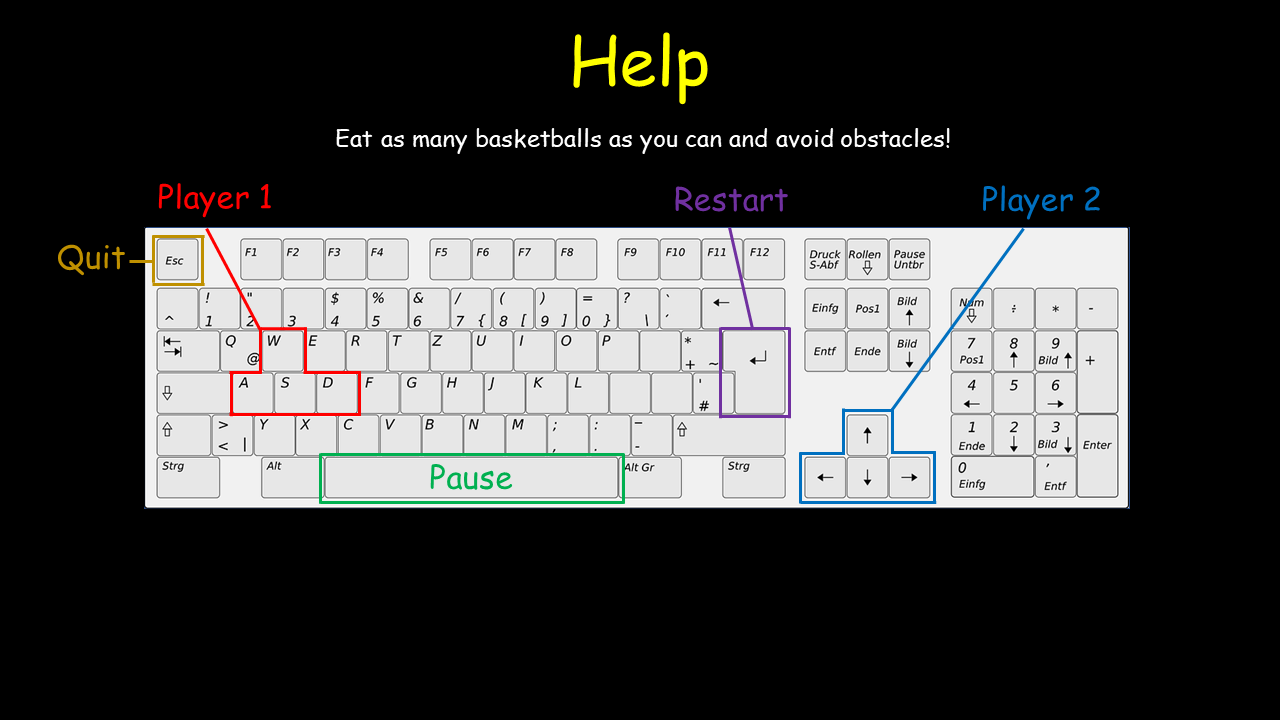
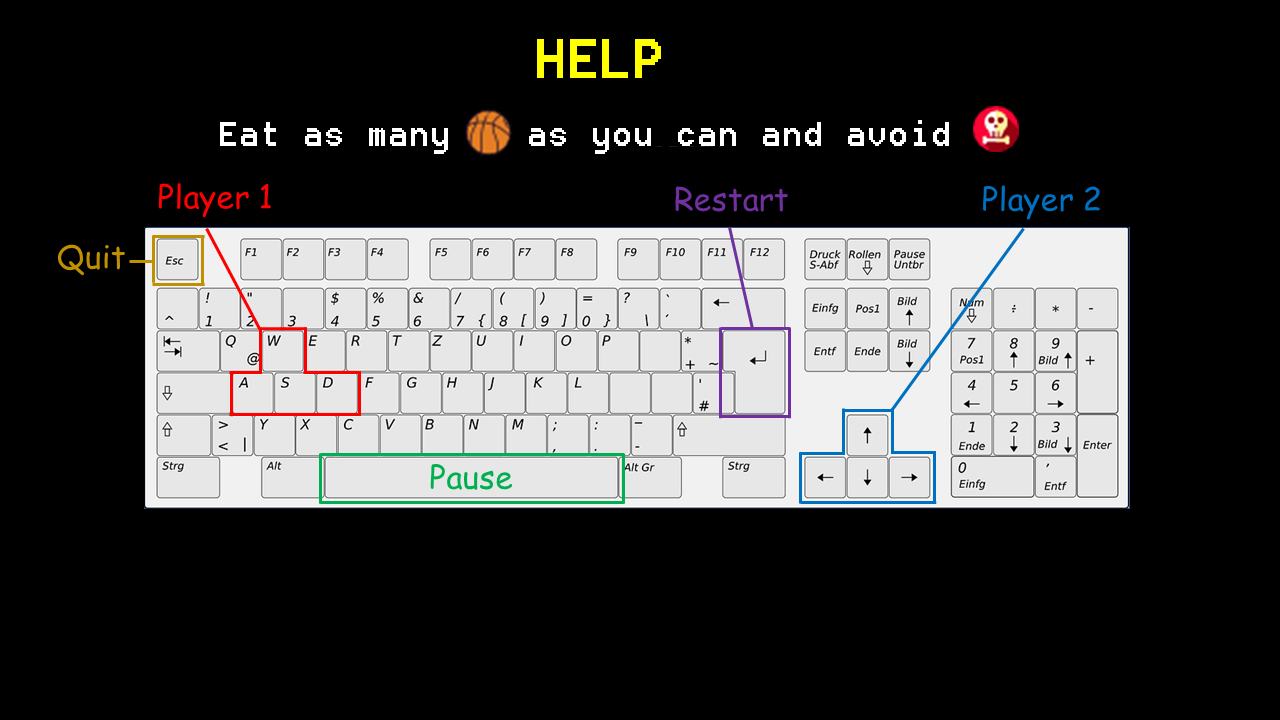
Ammend help page

Changed region(s): [[0.1562, 0.1528, 0.8125, 0.2139], [0.4062, 0.0306, 0.5625, 0.1528]]

diff --git a/src/Engine/Help.cpp b/src/Engine/Help.cpp
@@ -33,10 +33,10 @@ void Help::init() {
 //    gameTitle.setPosition(context->window->getSize().x / 2, context->window->getSize().y / 2 - 200.f);
 
     // Back Button
-    backButton.setFont(context->assets->getFont(MAIN_FONT));
-    backButton.setString("Back!");
+    context->assets->addTexture(BACK_BUTTON, "../assets/images/back_button.png",true);
+    backButton.setTexture(context->assets->getTexture(BACK_BUTTON));
     backButton.setOrigin(backButton.getLocalBounds().width / 2, backButton.getLocalBounds().height / 2);
-    backButton.setPosition(context->window->getSize().x / 2, context->window->getSize().y / 2 + 200.f);
+    backButton.setPosition(context->window->getSize().x / 2, context->window->getSize().y / 2 + 230.f);
 
 }
 
@@ -53,8 +53,8 @@ void Help::processInput() {
             case sf::Event::MouseButtonPressed:
                 if (event.mouseButton.button == sf::Mouse::Left) {
                     // back
-                    if (event.mouseButton.x >= 545 and event.mouseButton.x <= 610) {
-                        if (event.mouseButton.y >= 535 and event.mouseButton.y <= 555)
+                    if (event.mouseButton.x >= 495 and event.mouseButton.x <= 650) {
+                        if (event.mouseButton.y >= 536 and event.mouseButton.y <= 591)
                                 startButtonPressed = true;
                     }
                 }

diff --git a/include/Help.hpp b/include/Help.hpp
@@ -20,7 +20,7 @@ namespace Engine {
     private:
         std::shared_ptr<Context> context;
         sf::Text gameTitle;
-        sf::Text backButton;
+        sf::Sprite backButton;
         sf::Sprite background;
 
         bool startButtonPressed;

diff --git a/src/Math/SnakeMath.cpp b/src/Math/SnakeMath.cpp
@@ -1,3 +1,5 @@
+#include <exception>
+#include <iostream>
 #include "../../include/SnakeMath.hpp"
 
 using namespace Math;
